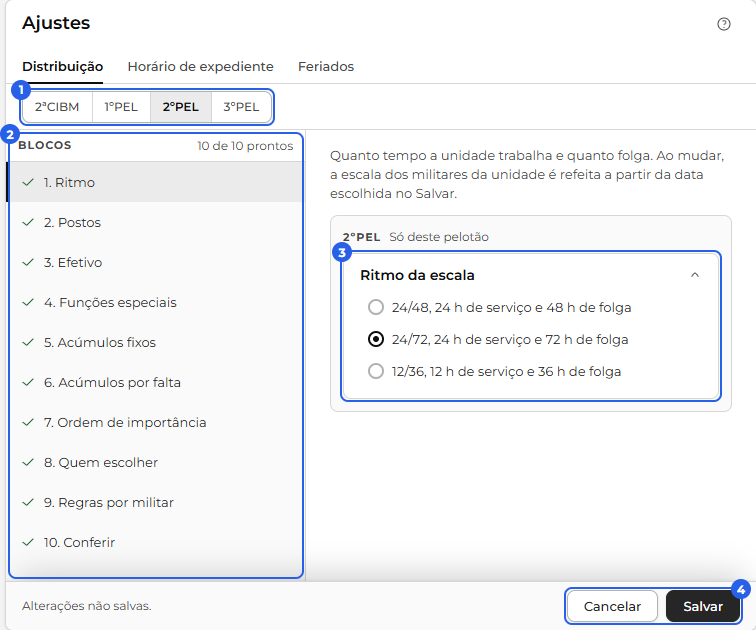
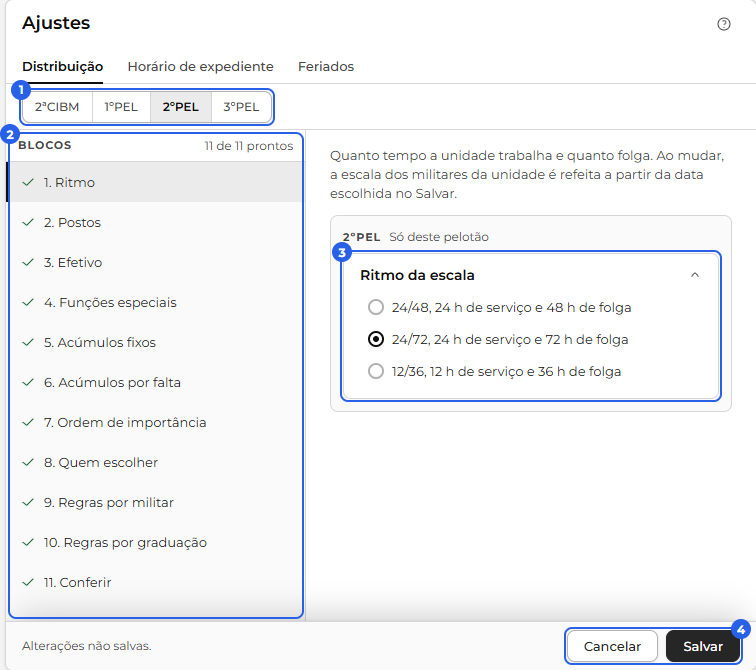
1

diff --git a/manual.html b/manual.html
@@ -724,6 +724,7 @@
                 <li><strong>Grau rebaixado por falta de efetivo:</strong> faltou militar do grau ideal e a função ficou com um de outro grau.</li>
                 <li><strong>Grau diferente do ideal:</strong> a função ficou com um militar fora do grau ideal, por ser o exclusivo dela ou por escolha do administrador.</li>
                 <li><strong>Rodízio repetido por falta de opção:</strong> o militar repetiu a função do último serviço, porque não havia outro.</li>
+                <li><strong>Função fora da regra por falta de gente:</strong> a Distribuição tem uma regra por graduação para a função (por exemplo, sargento não faz Rancheiro), mas não havia outro militar que pudesse. Aberto, o aviso diz quem está na função.</li>
                 <li><strong>Condutor exclusivo indisponível:</strong> o condutor exclusivo da viatura não estava disponível e outro motorista assumiu a direção.</li>
                 <li><strong>Chefe assumiu a direção:</strong> faltou condutor e o chefe da viatura passou a dirigir.</li>
                 <li><strong>Militar afastado, não vai assumir o serviço:</strong> quem cobre um serviço por troca entrou de férias, licença ou dispensa naquele dia.</li>
@@ -1574,13 +1575,13 @@
               <p>A página <strong>Ajustes</strong> guarda as configurações das unidades, em três abas embaixo do título: <strong>Distribuição</strong>, <strong>Horário de expediente</strong> e <strong>Feriados</strong>. Ela fica só no computador. Nas três, o que você muda espera o <strong>Salvar</strong>, no rodapé da página, que aparece embaixo da tela toda só quando há alteração, com o <strong>Cancelar</strong> ao lado. Sair de uma aba com mudança não salva pergunta antes.</p>
               <h3 id="dist-o-que-e">O que é a Distribuição</h3>
               <p>A Distribuição diz ao sistema <strong>como montar a escala de cada dia</strong>: quais postos a unidade tem, quantas pessoas cada um leva e quem senta em cada função. Ela é um <strong>questionário</strong> respondido uma vez por unidade e vale para qualquer número de militares de serviço: com 2, com 3 ou com 5, o sistema usa as mesmas respostas.</p>
-              <p>Abra <strong>Ajustes</strong> no menu: a <strong>Distribuição</strong> é a primeira aba. Na barra fica a <strong>unidade</strong>: a companhia e os pelotões da sua área de administração. À esquerda ficam os <strong>10 blocos</strong>, cada um com o sinal de pronto ou de falta. À direita, as perguntas do bloco escolhido, em cartões fechados que mostram a resposta e abrem ao clicar no título, um por vez. No pelotão, o que é da companhia, como o Oficial de Área, aparece junto, e só o administrador da companhia muda.</p>
+              <p>Abra <strong>Ajustes</strong> no menu: a <strong>Distribuição</strong> é a primeira aba. Na barra fica a <strong>unidade</strong>: a companhia e os pelotões da sua área de administração. À esquerda ficam os <strong>11 blocos</strong>, cada um com o sinal de pronto ou de falta. À direita, as perguntas do bloco escolhido, em cartões fechados que mostram a resposta e abrem ao clicar no título, um por vez. No pelotão, o que é da companhia, como o Oficial de Área, aparece junto, e só o administrador da companhia muda.</p>
               <figure class="manual-figura manual-figura--cheia">
-                <img src="manual/imagens/distribuicao-pagina.png" width="756" height="630" alt="A aba Distribuição dos Ajustes: a unidade na barra (1), os 10 blocos à esquerda (2), as perguntas do bloco em cartões (3) e Cancelar e Salvar no rodapé da página, embaixo da tela toda (4)." />
+                <img src="manual/imagens/distribuicao-pagina.png" width="756" height="670" alt="A aba Distribuição dos Ajustes: a unidade na barra (1), os 11 blocos à esquerda (2), as perguntas do bloco em cartões (3) e Cancelar e Salvar no rodapé da página, embaixo da tela toda (4)." />
                 <figcaption>
                   <ol class="manual-chamadas">
                     <li>Unidade</li>
-                    <li>Os 10 blocos, com o sinal de pronto ou de falta</li>
+                    <li>Os 11 blocos, com o sinal de pronto ou de falta</li>
                     <li>As perguntas do bloco</li>
                     <li>Cancelar e Salvar, no rodapé da página</li>
                   </ol>
@@ -1652,6 +1653,7 @@
                 <li><strong>Ordem de importância</strong>: cada linha é uma pessoa, com os acúmulos dela na mesma linha. Com N militares de serviço, enchem as N primeiras linhas, e quem sobra fica sem função. A função especial é sempre a 1ª. As setas mudam a ordem; dentro do mesmo posto, a ordem segue os lugares (Efetivo 2 antes do Efetivo 3).</li>
                 <li><strong>Quem escolher</strong>: para cada função, na ordem de importância, quem senta nela: o mais antigo ou o mais moderno que ainda não tem função, ou uma graduação ("Um 3ºSgt. ou o mais próximo", "Somente 3ºSgt. ou fica vazia"), com o aviso quando ela faltar. O <strong>rodízio</strong> evita que o militar repita a função do último serviço. O Condutor só fica com quem tem a CNH da viatura.</li>
                 <li><strong>Regras por militar</strong>: o que um militar não pode fazer ou só pode fazer (Condutor, Rádio Operador, Efetivo, Rancheiro ou Almoxarife). Cada regra é um cartão, com o militar no título.</li>
+                <li><strong>Regras por graduação</strong>: o que uma graduação não pode fazer ou só pode fazer, por exemplo "Igual ou mais antigo que 3ºSgt.: não pode Rancheiro". A graduação se escolhe nas bolinhas: <strong>Apenas</strong> uma, <strong>Igual ou mais antigo que</strong>, <strong>Igual ou mais moderno que</strong> ou <strong>De</strong> uma <strong>a</strong> outra. A regra por militar vale mais que esta. Sem ninguém que possa, a função fica com quem estiver, com o aviso amarelo na escala.</li>
               </ul>
               <p>Nos dois acúmulos, as opções são sempre de <strong>outro posto</strong>: dentro do mesmo posto, a Ordem de importância já distribui. Aberto o cartão, as <strong>setas</strong> mudam a ordem das opções, a lixeira tira uma opção (da 2ª em diante), <strong>Adicionar opção</strong> inclui uma linha e <strong>Remover acúmulo</strong> tira o acúmulo inteiro.</p>
               <p>Quando o Chefe de Socorro pode dirigir a viatura dele, aparece um cartão travado do <strong>Condutor</strong>, com ele numa das opções e o cadeado. Em <strong>sempre</strong>, ele é a 1ª opção. Em <strong>só se não houver outro habilitado</strong>, você põe outras opções antes dele, como o Condutor de outra viatura, e só sem elas ele dirige.</p>
@@ -1678,7 +1680,7 @@
               </figure>
 
               <h3 id="dist-conferir">Conferir antes de salvar</h3>
-              <p>O bloco <strong>Conferir</strong> mostra o resultado das respostas, sem gravar, de três jeitos: <strong>Tabela</strong> (a partir de um número de militares de serviço, ele e os quatro seguintes, uma coluna cada), <strong>Simular a equipe</strong> (quantos de cada graduação) e <strong>Um dia real</strong> (quem está de serviço numa data, com a CNH de cada um). Os avisos dos postos aparecem em caixas, primeiro os vermelhos.</p>
+              <p>O bloco <strong>Conferir</strong> mostra o resultado das respostas, sem gravar, de três jeitos: <strong>Tabela</strong> (a partir de um número de militares de serviço, ele e os quatro seguintes, uma coluna cada), <strong>Simular a equipe</strong> (quantos de cada graduação) e <strong>Um dia real</strong> (quem está de serviço numa data, com a CNH de cada um, distribuído do mesmo jeito da escala). Os avisos dos postos aparecem em caixas, primeiro os vermelhos. A função ocupada fora de uma regra por graduação, por não haver outro que pudesse, ganha a marca amarela <strong>Fora da regra</strong>.</p>
               <figure class="manual-figura manual-figura--cheia">
                 <img src="manual/imagens/distribuicao-conferir.png" width="669" height="724" alt="O Conferir na Tabela: o seletor Tabela, Simular a equipe e Um dia real (1), uma coluna para cada número de militares de serviço (2) e os totais por posto (3)." />
                 <figcaption>
@@ -1693,7 +1695,7 @@
               <h3 id="dist-salvar">Salvar e a mudança agendada</h3>
               <p>O que você muda fica marcado, com "Alterações não salvas" no rodapé, até o <strong>Salvar</strong>. O <strong>Cancelar</strong> desfaz tudo. O Salvar pergunta <strong>a partir de quando</strong> a mudança vale: o padrão é o próximo serviço (o dia vira às 08h), e dá para escolher outra data, até 7 dias para trás. Embaixo da data vem o resumo do que muda.</p>
               <p>Com uma data futura, a mudança vira a <strong>mudança agendada</strong>: um aviso no alto da página mostra a data, com <strong>Ver a mudança</strong>, <strong>Mudar a data</strong> e <strong>Cancelar a mudança</strong>. Cada unidade tem a distribuição em vigor e, no máximo, uma mudança agendada.</p>
-              <p>Ao salvar, a escala da unidade é refeita a partir da data, o resumo do que mudou abre na tela e fica no <strong>Histórico</strong>.</p>
+              <p>Ao salvar, a escala da unidade é refeita a partir da data, o resumo do que mudou abre na tela e fica no <strong>Histórico</strong>. Os primeiros dias são refeitos na hora, com o círculo cobrindo a página; os outros, em segundo plano. Se você abrir a Escala nesse meio-tempo, ela aparece na hora, com a nota "Atualizando a escala de … em diante" no alto e os dias que ainda vão ser refeitos apagados. Quando termina, a nota some e a grade se refaz sozinha. O painel de um dia apagado abre quando ele fica pronto.</p>
               <figure class="manual-figura">
                 <img src="manual/imagens/distribuicao-salvar.png" width="496" height="280" alt="O Salvar da Distribuição: a data a partir de quando vale (1), Escolher outra data (2) e o resumo do que muda (3)." />
                 <figcaption>

diff --git a/programador.html b/programador.html
@@ -2267,6 +2267,7 @@
                 <li>Sem Ver/Editar e sem botão Editar: para o administrador, o Dia e o Ciclo já abrem editando; para o comum, tudo é leitura.</li>
                 <li><strong>A escala do dia na Minha escala</strong> (26/10/2026; <code>escalas-minha.js</code>): o desenho da seção Dia (<code>RosterWork.escalasDia.desenharDistribuicao</code>) dentro da caixa <code>.escala-minha-dia</code>, sem painel, sem os botões de edição e sem o rodapé, para todos (o administrador inclusive); o único botão é o Solicitar troca, no cabeçalho da caixa. A linha de quem está logado ganha o realce claro <code>.escala-distribuicao-escalado--voce</code> (fundo <code>--fundo-medio</code>, em <code>escalas-painel.css</code>), o mesmo das grades, inclusive quando ele está de folga; o escuro (<code>.escala-distribuicao-escalado--busca</code>) fica só para a busca.</li>
                 <li>A célula marcada (<code>.escala-mes-celula--selecionada</code>) é marcada de novo quando a grade é refeita com o painel aberto.</li>
+                <li><strong>Os dias que a fila do recálculo ainda vai refazer</strong> (03/11/2026): entre a barra e a grade, a <code>.nota</code> cinza <code>.escala-atualizando</code> (margem 12px 16px 0) com os pontinhos e "Atualizando a escala de 11/11 em diante (1ºPEL). Os dias marcados se refazem sozinhos quando terminar."; a célula do dia fica apagada (<code>.escala-mes-celula--atualizando</code>, opacidade 0,45; Agenda, Calendário, Colunas e Semana) e, na Agenda, os pontinhos (<code>.escala-mes-data-atualizando</code>, <code>--texto-fraco</code>) embaixo da data. O painel de um dia marcado mostra o círculo (<code>#tpl-painel-carregando</code>) até a fila terminar. Quando termina, a nota some e a grade se refaz.</li>
                 <li><strong>Ciclo:</strong> a <code>.nota</code> (ícone <code>icone-historico</code> + "As mudanças desta aba valem a partir de DD/MM e seguem nos próximos dias.") no topo; a lista "Contínuos do dia" mostra só quem o ciclo escala naquele dia; quem é do dia mas está de folga aparece riscado (<code>.escala-secao-item--folga</code>, <code>line-through</code> + <code>--texto-fraco</code>, a mesma convenção da folga na grade). Os botões da linha ficam à direita, em <code>.escala-secao-acao</code> (gap 4px): Tirar (<code>.escala-secao-botao--perigo</code>) ou, na saída marcada, o selo "Sai em DD/MM" e os botões Cancelar saída + Tirar, lado a lado.</li>
               </ul>
             </div>
@@ -2451,6 +2452,7 @@
                 <li><strong>Cartões fechados com a lista</strong> (Postos, Acúmulos fixos, Acúmulos por falta e Regras por militar): o cartão que abre de sempre (<code>.nova-distribuicao-cartao</code> com o cabeçalho, a resposta e as opções); fechado, a resposta em texto em <code>.nova-distribuicao-resposta-linha</code> (14px, <code>--texto-suave</code>; o que falta e os erros em <code>--erro</code>); no Postos, a linha numerada (molde <code>#tpl-nova-distribuicao-resposta-numerada</code>) com o Nº em <code>.nova-distribuicao-linha-ordem</code> (600, <code>--texto-forte</code>, o mesmo da tabela), um espaço e o nome. Um aberto por vez; com a caixa de uma mudança com data aberta, o cartão do Postos fica aberto.</li>
                 <li><strong>Acúmulo aberto</strong> (moldes <code>#tpl-nova-distribuicao-acumulo</code> e <code>-por-falta</code>, em <code>.nova-distribuicao-cartao-conteudo</code>): a linha da função (<code>.nova-distribuicao-regra-linha</code>: o rótulo "Função" ou "Se faltar", 120px, <code>--texto-suave</code>, e o campo), as opções e, embaixo, <code>.nova-distribuicao-cartao-botoes</code> (<code>flex</code>, gap 8px, quebra de linha) com <strong>Adicionar opção</strong> e <strong>Remover acúmulo</strong> (<code>.botao</code> brancos) e a ajuda "Se ninguém puder, a função fica vazia.". Cada opção (molde <code>#tpl-nova-distribuicao-opcao</code>) em <code>.nova-distribuicao-regra-linha.nova-distribuicao-regra-linha--opcao</code> (grade <code>120px minmax(0, 1fr) auto 32px</code>): "1ª opção", o campo, as setas em <code>.nova-distribuicao-opcao-setas</code> (<code>flex</code>, gap 4px, os <code>.botao--icone</code> de subir e descer, somem com uma opção só) e a lixeira, só da 2ª opção em diante. Na regra automática, a função e a função especial ficam com o campo travado, sem lixeira e com a trava embaixo; sem Remover acúmulo.</li>
                 <li><strong>Regra por militar aberta</strong> (molde <code>#tpl-nova-distribuicao-regra</code>): três <code>.nova-distribuicao-regra-linha</code> (Militar com o <code>campo-combo</code>, Regra com o <code>.abas--seletor</code> Não pode | Só pode, compacto, e Função) e <code>.nova-distribuicao-cartao-botoes</code> com <strong>Remover regra</strong>. Sem nenhuma regra, "Nenhuma regra." em <code>.nova-distribuicao-ajuda</code>.</li>
+                <li><strong>Regra por graduação aberta</strong> (molde <code>#tpl-nova-distribuicao-regra-graduacao</code>, 03/11/2026): a 1ª linha é <code>.nova-distribuicao-regra-linha--opcoes</code>, com o rótulo Graduação no alto (<code>padding-top: 8px</code>, alinhado à 1ª bolinha) e as quatro <code>.geral-opcao</code> em <code>.nova-distribuicao-opcoes</code> ocupando o campo e o lugar do remover (<code>grid-column: 2 / 4</code>), com a graduação dentro da frase (o campo de seleção em <code>.nova-distribuicao-espaco</code>, como no Quem escolher); depois Regra e Função, como na regra por militar, e <strong>Remover regra</strong>. Fechado, o título é a graduação ("Igual ou mais antigo que 3ºSgt."). No Conferir, o selo amarelo <code>.selo--alerta</code> <strong>Fora da regra</strong> fica ao lado da situação da linha.</li>
                 <li><strong>Instalações em lista</strong> (bloco Postos): cada uma em <code>.nova-distribuicao-viatura.nova-distribuicao-instalacao</code>, nas colunas das viaturas, o nome em <code>.nova-distribuicao-instalacao-nome</code> (<code>grid-column 2 / 4</code>, 14px, <code>--texto-forte</code>) e as ações à direita (Fora de serviço e lixeira). Em cima, a frase "A ordem da lista é a ordem exibida na escala." e o cabeçalho Nº · Instalação (some sem instalação); o Nº segue das instalações para as viaturas. Embaixo da lista, o botão <strong>Nova instalação</strong> (<code>.dropdown.nova-distribuicao-adicionar</code>, um <code>.botao</code> branco igual ao Nova viatura) abre o menu dos tipos (<code>.dropdown-menu</code> com um <code>.dropdown-item</code> por tipo: Central de Operações, Rancho, Almoxarifado); a segunda do mesmo tipo ganha o número.</li>
                 <li><strong>Mudanças com data do posto</strong> (substituição, fora de serviço e exclusão): a mesma caixa <code>.nova-distribuicao-troca-caixa</code>; o tipo no título em <code>.nova-distribuicao-troca-tipo-gravada</code>, <code>-nova</code>, <code>-fora</code> ou <code>-exclusao</code> (cada um com o ícone dele: <code>icone-substituir</code>, <code>icone-cadeado</code>, <code>icone-lixeira</code>); a substituta e a CNH só na substituição (<code>.nova-distribuicao-troca-so-substituicao</code>); o Fim fora da exclusão (<code>.nova-distribuicao-troca-com-fim</code>), que tem o rótulo "A partir de" (<code>.nova-distribuicao-troca-rotulo-desde</code>); a ajuda de cada tipo em <code>[data-ajuda]</code>. Fechadas, a linha <code>.nova-distribuicao-troca</code> com o ícone do tipo (<code>[data-icone]</code>) e o texto em <code>--texto-suave</code>, 12px.</li>
               </ul>

diff --git a/js/nova-distribuicao.js b/js/nova-distribuicao.js
@@ -28,6 +28,7 @@
       dados: null, unidadeId: null, periodo: null, resp: null, calc: null,
       companhia: null, respCia: null, calcCia: null,
       sujo: false, sujoCia: false, bloco: 9, aberto: null,   /* abre no 1º da lista, o Ritmo (data-bloco 9) */
+      base: null, baseCia: null,   /* as respostas de abertura (as arrumadas pela 1ª conta), em texto, para saber se mudou */
       vendoAgendada: false,                       /* a tela mostra a mudança agendada */
       renomeadas: { unidade: [], companhia: [] },  /* prefixos trocados ainda não salvos: [[velho, novo]] */
       focar: null                                  /* o campo que ganha o foco depois do redesenho */
@@ -51,8 +52,28 @@
   function avisarFalha(r) { RosterWork.avisar({ tipo: 'erro', mensagem: (r && r.error) || G().falhaServidor }); }
   function avisarSemConexao() { RosterWork.avisar({ tipo: 'erro', mensagem: G().semConexao }); }
 
+  /* as respostas em texto, sem depender da ordem das chaves (as listas mantêm a ordem) */
+  function emTexto(v) {
+    function ordenar(x) {
+      if (Array.isArray(x)) return x.map(ordenar);
+      if (x && typeof x === 'object') return Object.keys(x).sort().reduce(function (o, k) { o[k] = ordenar(x[k]); return o; }, {});
+      return x;
+    }
+    return JSON.stringify(ordenar(v));
+  }
+
+  /* as respostas de um lado (a unidade ou a companhia) estão diferentes das de abertura? Desfazer tudo volta a "não" */
+  function mudouLado(lado) {
+    var cia = lado === 'companhia';
+    if (!(cia ? E.sujoCia : E.sujo)) return false;   /* nunca mexeu */
+    var base = cia ? E.baseCia : E.base;
+    return base == null || emTexto(cia ? E.respCia : E.resp) !== base;
+  }
+
   /* edição não salva: as respostas da unidade, as da companhia, as substituições ou o ritmo */
-  function temEdicao() { return E.sujo || E.sujoCia || RosterWork.novaDistribuicaoCaixas.temRascunho() || Rt().mudou(); }
+  function temEdicao() {
+    return mudouLado('unidade') || mudouLado('companhia') || RosterWork.novaDistribuicaoCaixas.temRascunho() || Rt().mudou();
+  }
 
   /* com edição não salva, confirma o descarte antes de seguir */
   function confirmarDescarte(seguir, aoCancelar) {
@@ -111,7 +132,12 @@
       if (!rs[0] || !rs[0].success) { avisarFalha(rs[0]); return; }
       E.calc = rs[0];
       E.resp = rs[0].respostas;
-      if (rs[1] && rs[1].success) { E.calcCia = rs[1]; E.respCia = rs[1].respostas; }
+      if (E.base == null) E.base = emTexto(E.resp);
+      if (rs[1] && rs[1].success) {
+        E.calcCia = rs[1];
+        E.respCia = rs[1].respostas;
+        if (E.baseCia == null) E.baseCia = emTexto(E.respCia);
+      }
       if (C().definirInicioPadrao(E.unidadeId, { calc: E.calc, resp: E.resp }, ehPelotao())) return recalcular();
       desenhar();
     }, function () {
@@ -314,11 +340,11 @@
 
   /* ---------- gravar ---------- */
 
-  /* o que vai para o banco: a unidade e, no pelotão vendo a em vigor, a parte da companhia quando mudou */
+  /* o que vai para o banco: a unidade e, no pelotão vendo a em vigor, a parte da companhia, cada uma só quando mudou */
   function itensParaSalvar() {
     var itens = [];
-    if (E.sujo) itens.push({ periodo_id: E.periodo.id, respostas: E.resp, renomeadas: E.renomeadas.unidade });
-    if (E.sujoCia && E.companhia && E.companhia.periodo && !E.vendoAgendada) {
+    if (mudouLado('unidade')) itens.push({ periodo_id: E.periodo.id, respostas: E.resp, renomeadas: E.renomeadas.unidade });
+    if (mudouLado('companhia') && E.companhia && E.companhia.periodo && !E.vendoAgendada) {
       itens.push({ periodo_id: E.companhia.periodo.id, respostas: E.respCia, renomeadas: E.renomeadas.companhia });
     }
     return itens;

diff --git a/js/nova-distribuicao-versoes.js b/js/nova-distribuicao-versoes.js
@@ -153,6 +153,12 @@
     D().salvar(itens, null, null, true, subs, ritmo).then(function (previa) {
       RosterWork.pararCarregando(botao);
       if (!previa || !previa.success) { c.falha(previa); return; }
+      /* o banco não achou o que gravar (o que foi mexido voltou ao que estava gravado): avisa e volta ao gravado */
+      if (!(previa.itens || []).length && !(previa.substituicoes || []).length && !previa.ritmo) {
+        RosterWork.avisar({ tipo: 'aviso', mensagem: M().nadaMudou });
+        c.carregar(null);
+        return;
+      }
       var escolhidos = [];
       RosterWork.pedirData({
         sugerida: true, titulo: M().salvarTitulo, sugestaoAntes: M().salvarAntes, sugestaoDepois: M().salvarDepois,

diff --git a/componentes/js/geral-mensagens.js b/componentes/js/geral-mensagens.js
@@ -1309,7 +1309,9 @@
       botaoSalvar: 'Salvar',
       erroInicio: 'Escolha a data de início.',
       erroOrdemDatas: 'O fim precisa vir depois do início.',
-      corrigirAntes: 'Corrija os campos em vermelho antes de salvar.'
+      corrigirAntes: 'Corrija os campos em vermelho antes de salvar.',
+      /* a prévia do banco não achou mudança (o que foi mexido voltou ao que estava gravado) */
+      nadaMudou: 'Não há alterações para salvar.'
     },
 
     /* saída do militar da escala (transferência, Tirar do ciclo e baixa): a lista do aviso,
